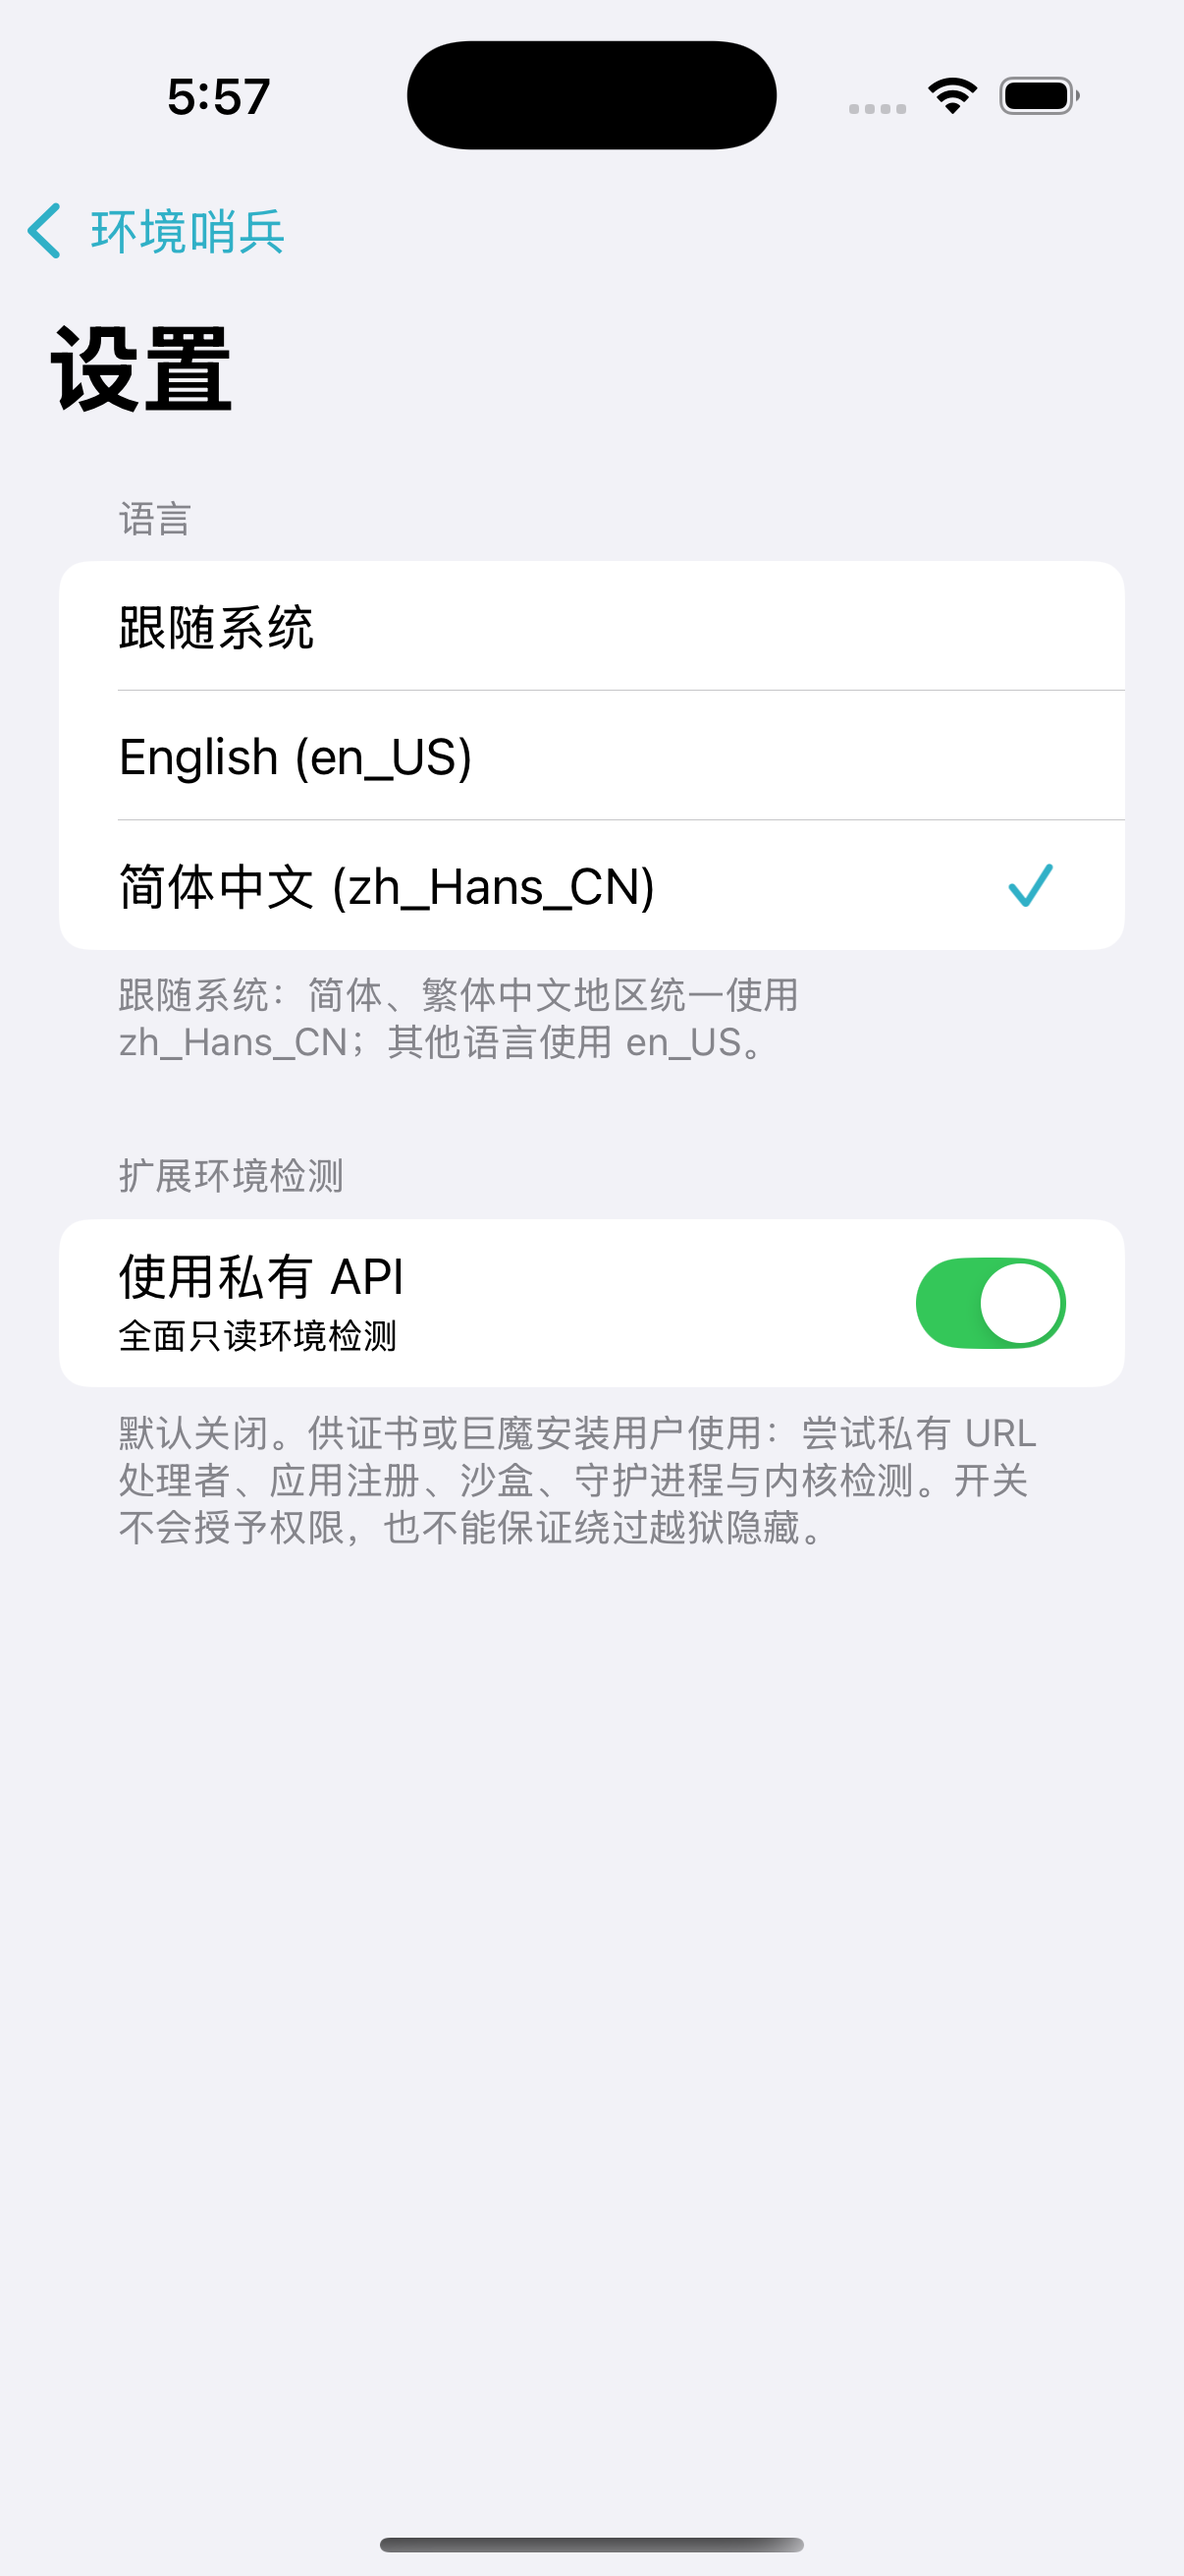
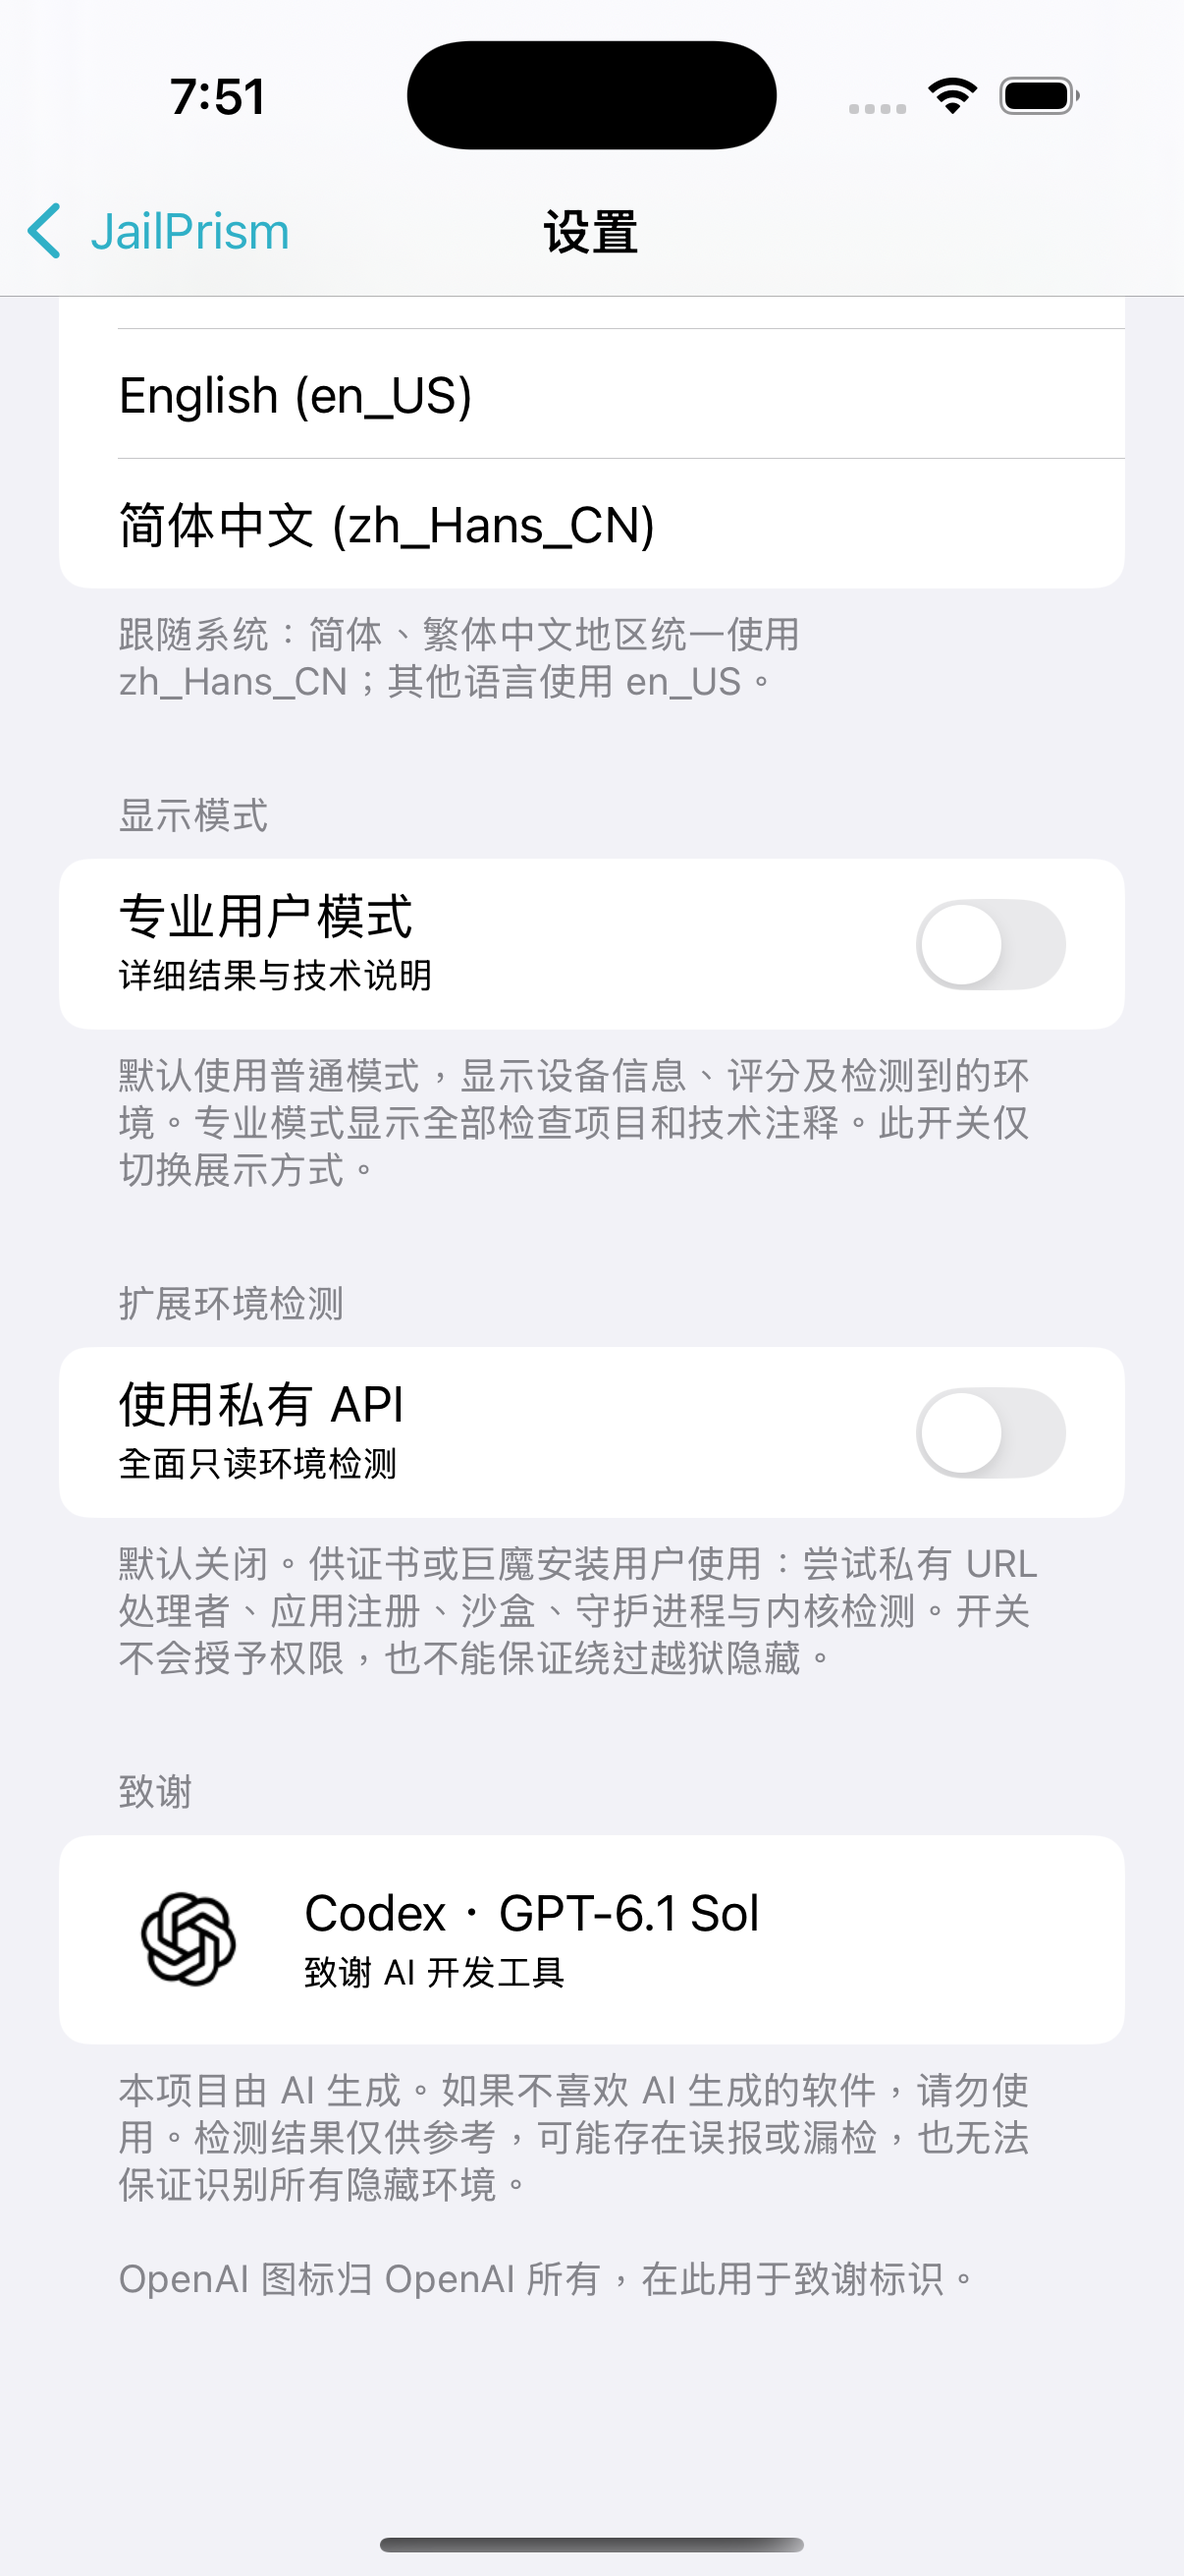
Document JailPrism modes and add verified simulator previews

diff --git a/docs/BUILDING.md b/docs/BUILDING.md
@@ -5,31 +5,31 @@
 ## 项目结构
 
 ```text
-IOSGuard/
+JailPrism/
 ├── Sources/                  # UIKit 界面、检测、评分、设置与语言资源
 ├── Tests/                    # Foundation 回归检查
 ├── scripts/                  # 工程生成、构建、校验与模拟器检查
-├── IOSGuard.xcodeproj/       # 由脚本生成的 Xcode 工程
+├── JailPrism.xcodeproj/       # 由脚本生成的 Xcode 工程
 ├── Artwork/                  # 白底应用图标原图
 ├── docs/                     # 使用与技术文档
 └── .github/workflows/        # GitHub Actions 云编译
 ```
 
-原生 Objective-C／UIKit，无第三方代码依赖。设备构建最低 iOS 14.0，架构为 arm64 与 arm64e。
+原生 Objective-C／UIKit，无第三方代码依赖。设备构建最低 iOS 14.0，架构为 arm64 与 arm64e；Bundle ID 为 `com.akisenn.JailPrism`。
 
 ## GitHub Actions 云编译
 
-Windows 用户可以直接使用 [Build unsigned IOSGuard IPA](https://github.com/AkiSenn/IOSGuard/actions/workflows/build.yml)：
+Windows 用户可以直接使用 [Build unsigned JailPrism IPA](https://github.com/AkiSenn/JailPrism/actions/workflows/build.yml)：
 
 1. 打开 workflow 页面。
 2. 点击 **Run workflow**，选择 `main`。
-3. 等待运行成功，下载 `IOSGuard-unsigned-iOS14-arm64-arm64e`。
+3. 等待运行成功，下载 `JailPrism-unsigned-iOS14-arm64-arm64e`。
 
 向 `main` 推送提交也会触发构建。Runner 使用 `macos-15`，构建产物保留 30 天。
 
 | 产物 | 内容 |
 | :--- | :--- |
-| `IOSGuard-unsigned.ipa` | 双架构未签名设备包 |
+| `JailPrism-unsigned.ipa` | 双架构未签名设备包 |
 | `build-metadata.json` | 架构、系统下限、版本与未签名校验结果 |
 | `SHA256SUMS.txt` | IPA 的 SHA-256 |
 | `simulator-*.png` | 结果页与设置页截图 |
@@ -47,7 +47,7 @@ Windows 或 macOS 安装 Python 3 后，在仓库根目录执行：
 python scripts/generate_project.py
 ```
 
-脚本生成 `IOSGuard.xcodeproj`。新增源文件或语言目录后重新生成工程；直接修改生成的工程可能被下一次生成覆盖。
+脚本生成 `JailPrism.xcodeproj`。新增源文件或语言目录后重新生成工程；直接修改生成的工程可能被下一次生成覆盖。
 
 ## macOS 本地构建
 
@@ -57,7 +57,7 @@ python scripts/generate_project.py
 bash scripts/build.sh
 ```
 
-输出文件位于 `dist/IOSGuard-unsigned.ipa`。构建脚本关闭 Xcode 签名，并禁止设备链接器生成 ad-hoc 签名，不调用签名工具。
+输出文件位于 `dist/JailPrism-unsigned.ipa`。构建脚本关闭 Xcode 签名，并禁止设备链接器生成 ad-hoc 签名，不调用签名工具。
 
 可独立执行语言资源检查：
 
@@ -70,11 +70,13 @@ python scripts/check_localizations.py
 | 检查 | 验证内容 |
 | :--- | :--- |
 | 语言资源 | 两种资源的键与格式占位符一致 |
-| 评分与设置回归 | URL 分类、评分上限、类型证据、语言映射、私有 API 默认关闭及偏好保留 |
+| 评分与设置回归 | URL 分类、评分上限、类型证据、名称去重、语言映射、专业／私有开关默认关闭及偏好保留 |
 | 设备包 | arm64／arm64e、最低 iOS 14.0、两个切片均无 `LC_CODE_SIGNATURE` |
 | 签名资源 | 无 `_CodeSignature`、描述文件及内嵌 entitlement |
-| 模拟器 | 英语自动选择、繁体映射简体、手动覆盖、扩展模式报告与设置页 |
+| 模拟器 | 语言、普通／专业主页、扩展模式、设置与致谢页、名称换行示例 |
 
 模拟器检查确认应用进程存活，并验证报告结构、设备信息、时间字段和模式开关。`scanConfiguration.privateOperationsAttempted` 在标准模式为空，扩展模式记录已尝试的操作。
 
 模拟器无法验证真机越狱准确率。发布前的设备实测应记录系统、越狱工具、隐藏插件、安装方式与对应 JSON 报告。
+
+名称换行预览使用 `previewFixture: true` 标识的示例报告，只响应模拟器测试参数。示例入口通过 `TARGET_OS_SIMULATOR` 限定，不包含在设备 IPA 中。

diff --git a/docs/USAGE.md b/docs/USAGE.md
@@ -4,9 +4,9 @@
 
 ## 安装
 
-1. 在 [GitHub Actions](https://github.com/AkiSenn/IOSGuard/actions/workflows/build.yml) 选择成功完成的运行。
-2. 下载 `IOSGuard-unsigned-iOS14-arm64-arm64e` 构建产物并解压。
-3. 将 `IOSGuard-unsigned.ipa` 分享给 TrollStore 安装。
+1. 在 [GitHub Actions](https://github.com/AkiSenn/JailPrism/actions/workflows/build.yml) 选择成功完成的运行。
+2. 下载 `JailPrism-unsigned-iOS14-arm64-arm64e` 构建产物并解压。
+3. 将 `JailPrism-unsigned.ipa` 分享给 TrollStore 安装。
 
 应用最低支持 iOS 14.0，IPA 包含 arm64 与 arm64e。应用支持范围与 TrollStore 可安装范围分别由应用和安装器决定；并非所有 iOS 14+ 系统都支持 TrollStore。
 
@@ -16,12 +16,32 @@
 
 启动应用会自动检测。主页顶部依次显示设备型号、硬件标识、iOS 版本与构建号、检测完成时间（含时区）、检测耗时、评分和疑似越狱类型。点击左上角「重新检测」刷新结果。
 
+专业模式提供以下筛选；普通模式不显示该控件。
+
 | 筛选 | 显示内容 |
 | :--- | :--- |
 | 全部 | 本次检测的所有项目 |
 | 命中 | 检测到特征的项目 |
 | 不确定 | 权限受限、接口不可用或其他无法判定的项目 |
 | 用户组 | 当前检测器进程的用户、主组与附加组检查 |
+
+普通模式默认显示设备信息、评分与疑似环境，底部不显示技术注释。巨魔命中时显示「检测出TrollStore巨魔」，越狱显示具体类型，如 Rootless（无根越狱）。
+
+商店和注入动态库分别以名称列表展示，重复名称合并；后续行与首行名称对齐。例如：
+
+```text
+检测出Cydia
+      Sileo
+
+检测出Choicy.dylib
+      ShadowCore.dylib
+```
+
+真实界面通过布局对齐，不依赖固定空格。动态库列表来自已加载镜像或函数来源中的已知注入特征，不把文件存在直接当成已加载，也不提供签名合法性鉴定。
+
+## 专业用户模式
+
+打开 **齿轮 → 显示模式 → 专业用户模式**。默认关闭，选择会保存。开启后主页显示全部检测项、路径、权重、评分规则、状态和技术说明，并可使用下方筛选。切换展示模式复用本次报告，不自动启用私有 API，也不会改变评分。
 
 每个检测项展示状态、权重与证据。单项权重不是最终扣分，分组上限和关联抵扣会影响实际评分，见[评分机制](DETECTION.md#评分机制)。
 
@@ -54,7 +74,7 @@
 
 ## 导出报告
 
-点击右上角 **分享按钮**，保存或分享 `IOSGuard-report.json`。
+点击右上角 **分享按钮**，保存或分享 `JailPrism-report.json`。
 
 | 字段 | 内容 |
 | :--- | :--- |
@@ -65,6 +85,8 @@
 | `score` | 评分、分组扣分、关联抵扣及各证据的实际贡献 |
 | `classification` | 疑似类型、类型证据 ID 与巨魔识别状态 |
 | `findings` | 每项状态、权重、证据；路径项还包含交叉查询通道 |
+| `simpleSummary` | 普通模式的分类名称列表与对应证据 ID |
+| `presentationMode` | 导出时的普通／专业展示模式 |
 
 报告结构版本为 `schema: 2`。`scanConfiguration.privateOperationsAttempted` 可用于确认扩展检测是否实际调用。
 
@@ -75,3 +97,7 @@
 记录系统版本、设备型号、越狱工具、安装方式、隐藏插件与私有 API 开关状态，并导出本次 JSON 报告。反馈方式见[贡献与反馈](../CONTRIBUTING.md)。
 
 模拟器的真机检查项统一显示不可判定、权重为 0；模拟器结果不能用于判断真实设备是否越狱。
+
+## 致谢与项目说明
+
+设置页最后一栏列出 Codex、GPT-6.1 Sol 和 OpenAI 图标，并说明本项目由 AI 生成、检测可能误报或漏检。普通主页不显示底部技术注释或这段说明。

diff --git a/CONTRIBUTING.md b/CONTRIBUTING.md
@@ -4,18 +4,19 @@
 
 ## 反馈漏检、误报或崩溃
 
-请在 [Issues](https://github.com/AkiSenn/IOSGuard/issues) 中说明复现步骤，并提供以下信息：
+请在 [Issues](https://github.com/AkiSenn/JailPrism/issues) 中说明复现步骤，并提供以下信息：
 
 | 信息 | 示例 |
 | :--- | :--- |
-| 应用版本 | 1.1.0 |
+| 应用版本 | 1.2.0 |
 | 设备与系统 | iPhone XR / iOS 14.8 |
 | 越狱工具与版本 | Taurine、unc0ver、Dopamine 或 RootHide 变体 |
 | 安装方式 | TrollStore 或证书安装 |
 | 隐藏与注入配置 | Shadow、Choicy、是否允许向检测器注入 |
 | 私有 API | 开启或关闭 |
+| 专业用户模式 | 开启或关闭 |
 | 预期与实际结果 | 预期识别的类型、实际评分及命中项 |
-| 检测报告 | 对应本次结果的 `IOSGuard-report.json` |
+| 检测报告 | 对应本次结果的 `JailPrism-report.json` |
 
 复现界面问题时补充语言选择与截图。报告中的路径和身份信息可按需移除无关内容；保留涉及误报或漏检的检测 ID、状态与通道结果，方便定位。
 

diff --git a/CHANGELOG.md b/CHANGELOG.md
@@ -2,6 +2,28 @@
 
 [返回项目首页](README.md)
 
+## 1.2.0 · 2026-10-04
+
+### 新增
+
+- 默认普通模式：设备信息、评分、疑似环境和检测到的名称列表。
+- 专业用户模式开关：保留完整检测项目、路径、权重和所有技术注释。
+- Cydia／Sileo／Zebra 商店列表及已知注入动态库名称列表，去重并逐行对齐。
+- 设置页致谢 Codex、GPT-6.1 Sol，并附 OpenAI 图标与 AI 生成说明。
+- JSON 增加普通模式摘要及展示模式，检测与私有 API 开关继续独立。
+
+### 更名
+
+- 应用与项目统一命名为 JailPrism。
+- Bundle ID 更新为 `com.akisenn.JailPrism`。
+- Xcode 工程、构建产物与报告名称同步更新。
+
+### 验证
+
+- 新增摘要去重、未知项排除、动态库来源与专业模式默认关闭的回归检查。
+- 模拟器验证两种主页、语言、私有模式及致谢页；UI 示例数据仅在模拟器编译，并明确标识。
+- 保持 iOS 14.0、arm64／arm64e 和完全未签名 IPA。
+
 ## 1.1.0 · 2026-10-04
 
 ### 新增

diff --git a/.github/ISSUE_TEMPLATE.md b/.github/ISSUE_TEMPLATE.md
@@ -16,13 +16,14 @@
 
 | 项目 | 内容 |
 | :--- | :--- |
-| IOSGuard 版本 | |
+| JailPrism 版本 | |
 | 设备型号 | |
 | iOS 版本／构建号 | |
 | 越狱工具／版本 | |
 | 安装方式 | |
 | 隐藏插件／注入配置 | |
 | 私有 API 开关 | |
+| 专业用户模式 | |
 | 应用语言 | |
 
 ## 报告与截图
